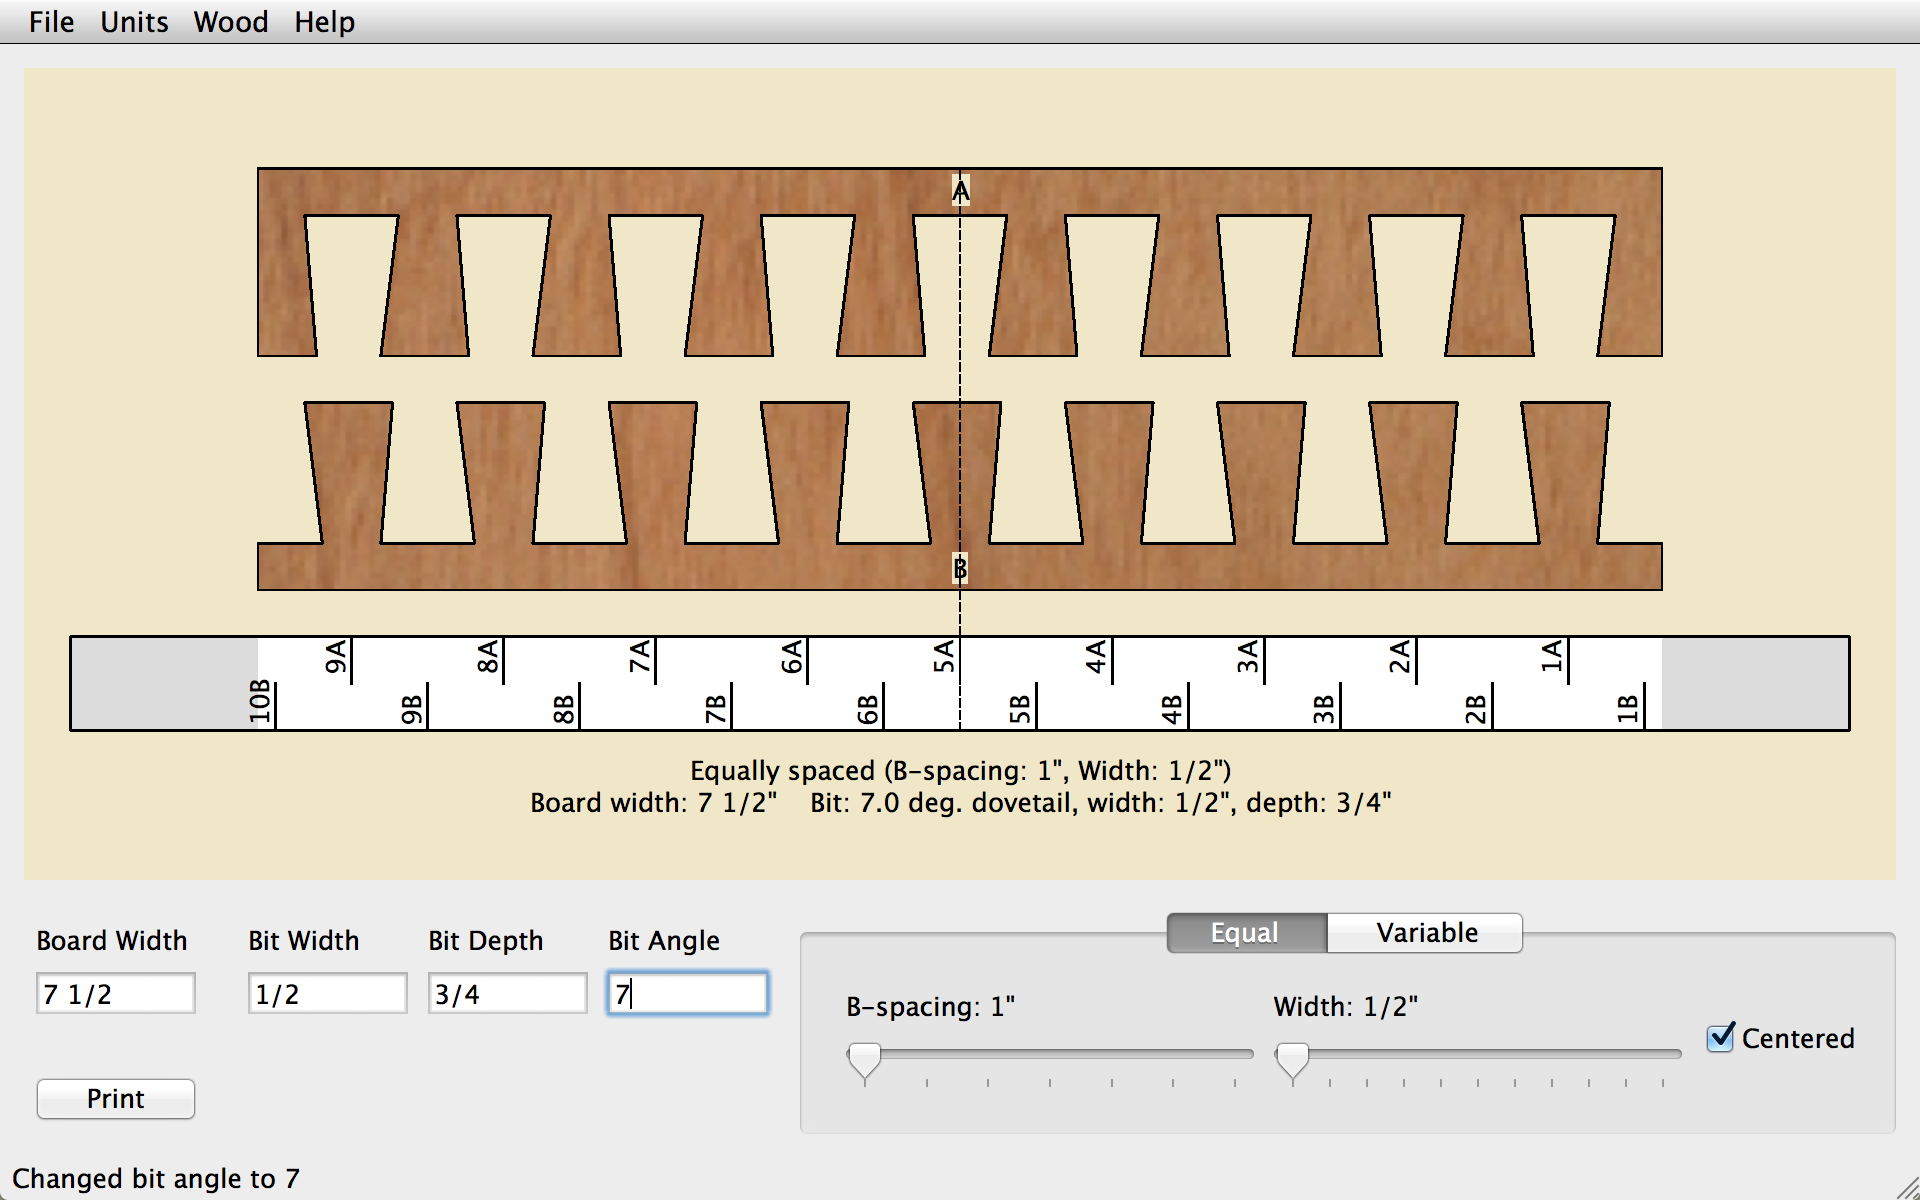
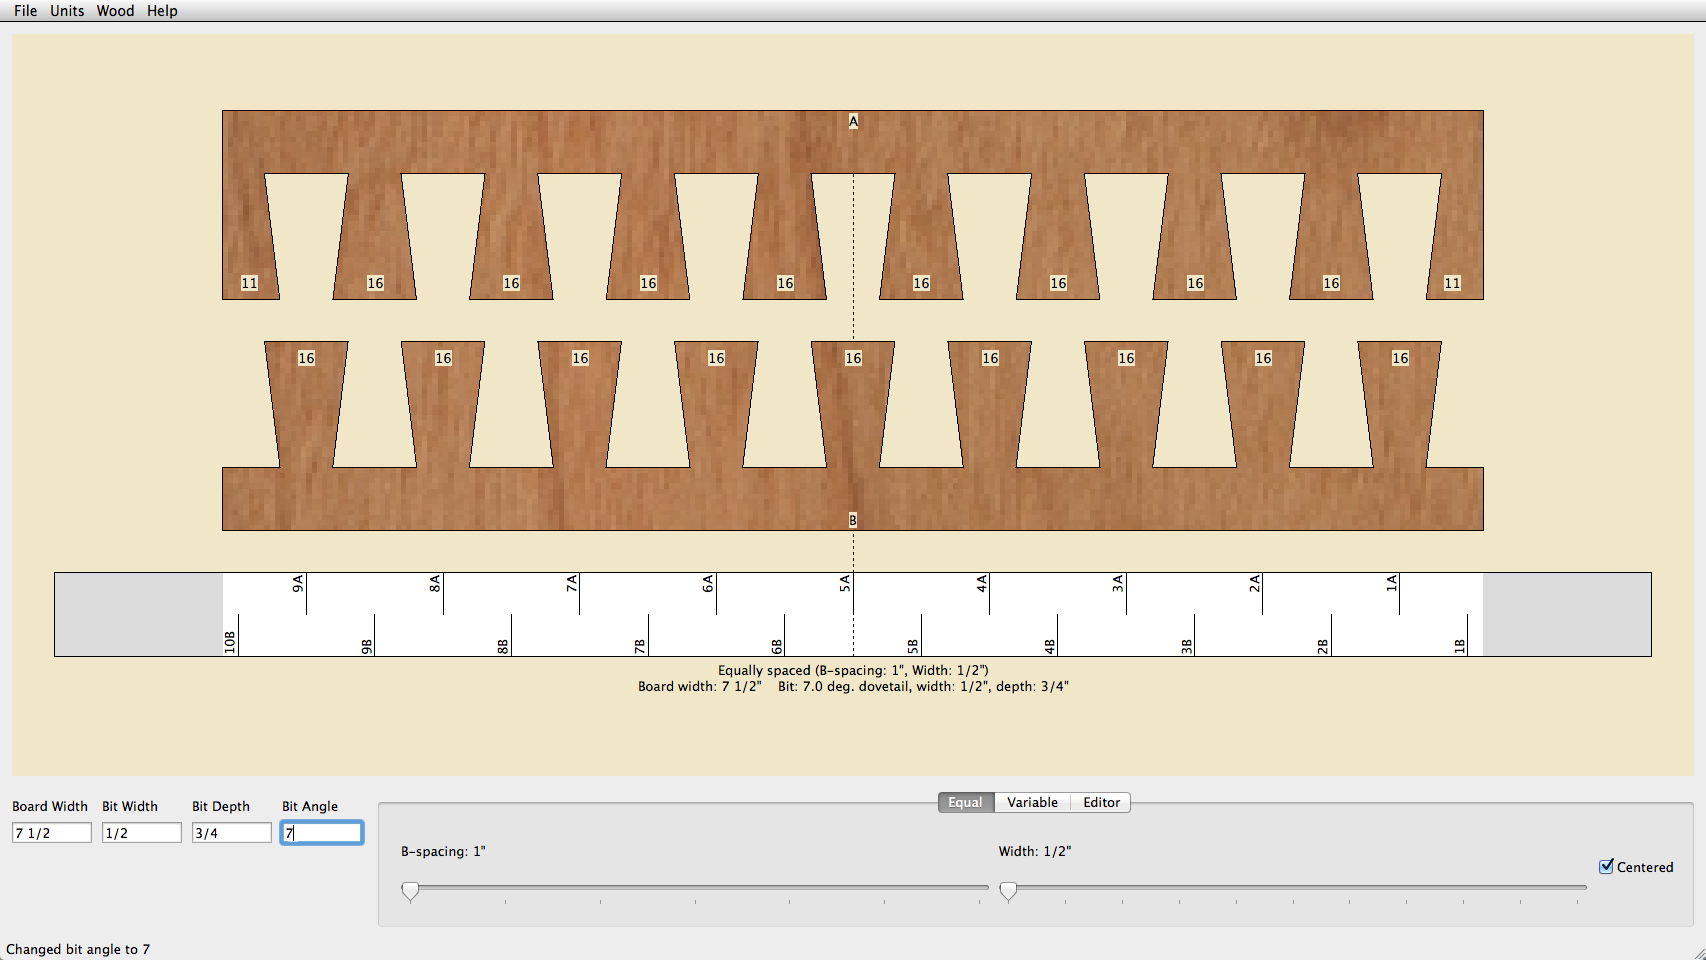
Changes for latest release.

diff --git a/documentation.md b/documentation.md
@@ -15,6 +15,7 @@ bottom of each section returns to this location):
 
 * [Overview of Features](#overview-of-features)
 * [Finger Spacing Options](#finger-spacing-options)
+* [Editor](#editor)
 * [Drop-Down Menus](#drop-down-menus)
 * [Printing](#printing)
 * [Intervals Explained](#intervals-explained)
@@ -42,14 +43,21 @@ mouse pointer, which is located over the <b>Bit Width</b> text box so that its t
 
 The default joint is a box joint, with the fingers equally spaced, over a
 width of 7 1/2\".  The upper portion of the window draws the current joint,
-with the labels \"Board-A\" and \"Board-B\" on the boards of the joint.  Below
-the boards is the corresponding Incra template.  This template may be cut out
-and used in an Incra LS Positioner.  Below the template is a concise title
-that summarizes the properties of the joint.  A vertical dashed line denotes
-the center of the boards.   The graphics containing the
-boards, template, and title may be printed by pressing the <b>Print</b>
-button on the lower left of the window, finding the <b>Print</b> option in the
-<b>File</b> pull-down menu, or pressing the key combination `Ctrl-P` (`Command-P` on Mac).
+with the labels \"A\" and \"B\" on the boards of the joint.  Each finger is
+labeled with its width, in intervals.  By default
+
+* 1 interval = 1/32\" (English units)
+* 1 interval = 1 mm (metric units)
+
+See [Intervals Explained](#intervals-explained) section for more discussion on intervals.
+
+Below the boards is the corresponding Incra template.  This template may be
+cut out and used in an Incra LS Positioner.  Below the template is a concise
+title that summarizes the properties of the joint.  A vertical dashed line
+denotes the center of the boards.  The graphics containing the boards,
+template, and title may be printed by selecting <b>Print</b> in the
+<b>File</b> pull-down menu, or by pressing the key combination `Ctrl-P`
+(`Command-P` on Mac).
 
 The lower part of the window allows you to interactively change the parameters
 for the joint.  The joint is re-drawn after each change.  At the lower left,
@@ -105,8 +113,11 @@ Finger Spacing Options
 
 Throughout the documentation of {{ site.codename }}, we refer to a \"finger\" not only
 as the traditional finger of a box joint, but also generically to refer to a
-pin or tail of a dovetail joint.  There are currently two finger-spacing
-algorithms:
+pin or tail of a dovetail joint.  There are currently two automatic finger-spacing
+algorithms, along with an editor to allow specification of arbitrary joints.
+The automatic spacing options are <b>Equal</b> and <b>Variable</b>, located at
+tabs in the lower-right portion of the window.  Each option has its own
+controls, described below:
 
 * <b>Equal:</b> In this case, the fingers are equally spaced.  
   Figures [1](#figure1) and [2](#figure2) are examples.
@@ -176,6 +187,52 @@ value of 5.
 The sliders can be moved by using either dragging the mouse, or my clicking on the
 slider and using the left and right arrow keys for small changes and Page Up
 and Page Down for large changes.
+
+[Return to index](#page-index)
+
+<a name="editor"></a>
+
+Editor
+======
+
+The <b>Editor</b> tab allows you to edit each individual finger of the joint.
+The starting joint for editing is whatever was last specified under either the
+<b>Equal</b> or <b>Variable</b> spacing options.  Under the <b>Editor</b>, the board
+and bit dimensions cannot be changed; make sure these are set to their final
+values under under either the <b>Equal</b> or <b>Variable</b> before switching
+to the <b>Editor</b>.
+
+[Figure 7](#figure7) shows an example of entering the <b>Editor</b>, after setting up the
+joint as in [Fig. 6](#figure6).  The active finger is highlighted in red and is the finger
+which is to be edited, using either the buttons under the <b>Editor</b> tab,
+or using keyboard shortcuts.  The green vertical lines indicate the extents
+that the active finger can be moved or widened, limited by the bit width.
+
+<figure>
+<a name="figure7"></a>
+<img src="{{ site.baseurl }}/editor_screen_shot.png" alt="Editor example.">
+<figcaption>
+<b>Figure 7.</b>  Editor mode, following initial spacing set in Fig. 6.
+</figcaption>
+</figure>
+
+The buttons and shortcuts are as follows: 
+
+* <b>Move:</b> (keyboard: left and right arrow keys) The arrows move the active finger 1 interval to the left or right, if possible.
+* <b>Widen:</b> (keyboard: Hold `Shift` key, along with left and right arrow keys) Widens the active finger on its left or right side by 1 interval, if possible.
+* <b>Trim:</b> (keyboard: Hold `Control` key, along with left or right arrows) Trim the active finger on its left or right side by 1 interval, if possible.
+* <b>Select:</b>  (keyboard: Hold `Alt` key, along with left or right arrows) Selects the next
+finger to the right or left to be the active finger.
+* <b>Add:</b>  (keyboard: `+`) Adds a finger, if possible.  There needs to be
+space enough to add a finger, given the board width and bit constraints.  The
+finger is added in the first possible location found, searching from the
+left side of the board.
+* <b>Delete:</b>  (keyboard: `-`) Deletes the active finger.
+* <b>Undo:</b>  (keyboard: `u`) Undo the last editing operation.  This key may
+be pressed multiple times.
+
+Note that if you make changes in the <b>Editor</b>, and then go back to either
+<b>Equal</b> or <b>Variable</b> options, the changes will be lost.
 
 [Return to index](#page-index)
 
@@ -310,12 +367,10 @@ know Python and can send me proposed patches (or pull requests on Github).
   * Define the option for \"fold-over templates\" that are appropriate for
     laying out hand-cut joints.  This would be an alternative option to the Incra template.
   * More friendly error messages and handling.
-  * More spacing options, such as an interactive GUI to allow manual
-    adjustment of individual finger positions and widths.
+  * More spacing options.
   * Consider relaxing the requirement that board and bit dimensions be exact multiples
     of intervals.
   * Double-joint support.
-  * Easier installation, for those who don\'t know anything about Python.
 
 [Return to index](#page-index)
 
